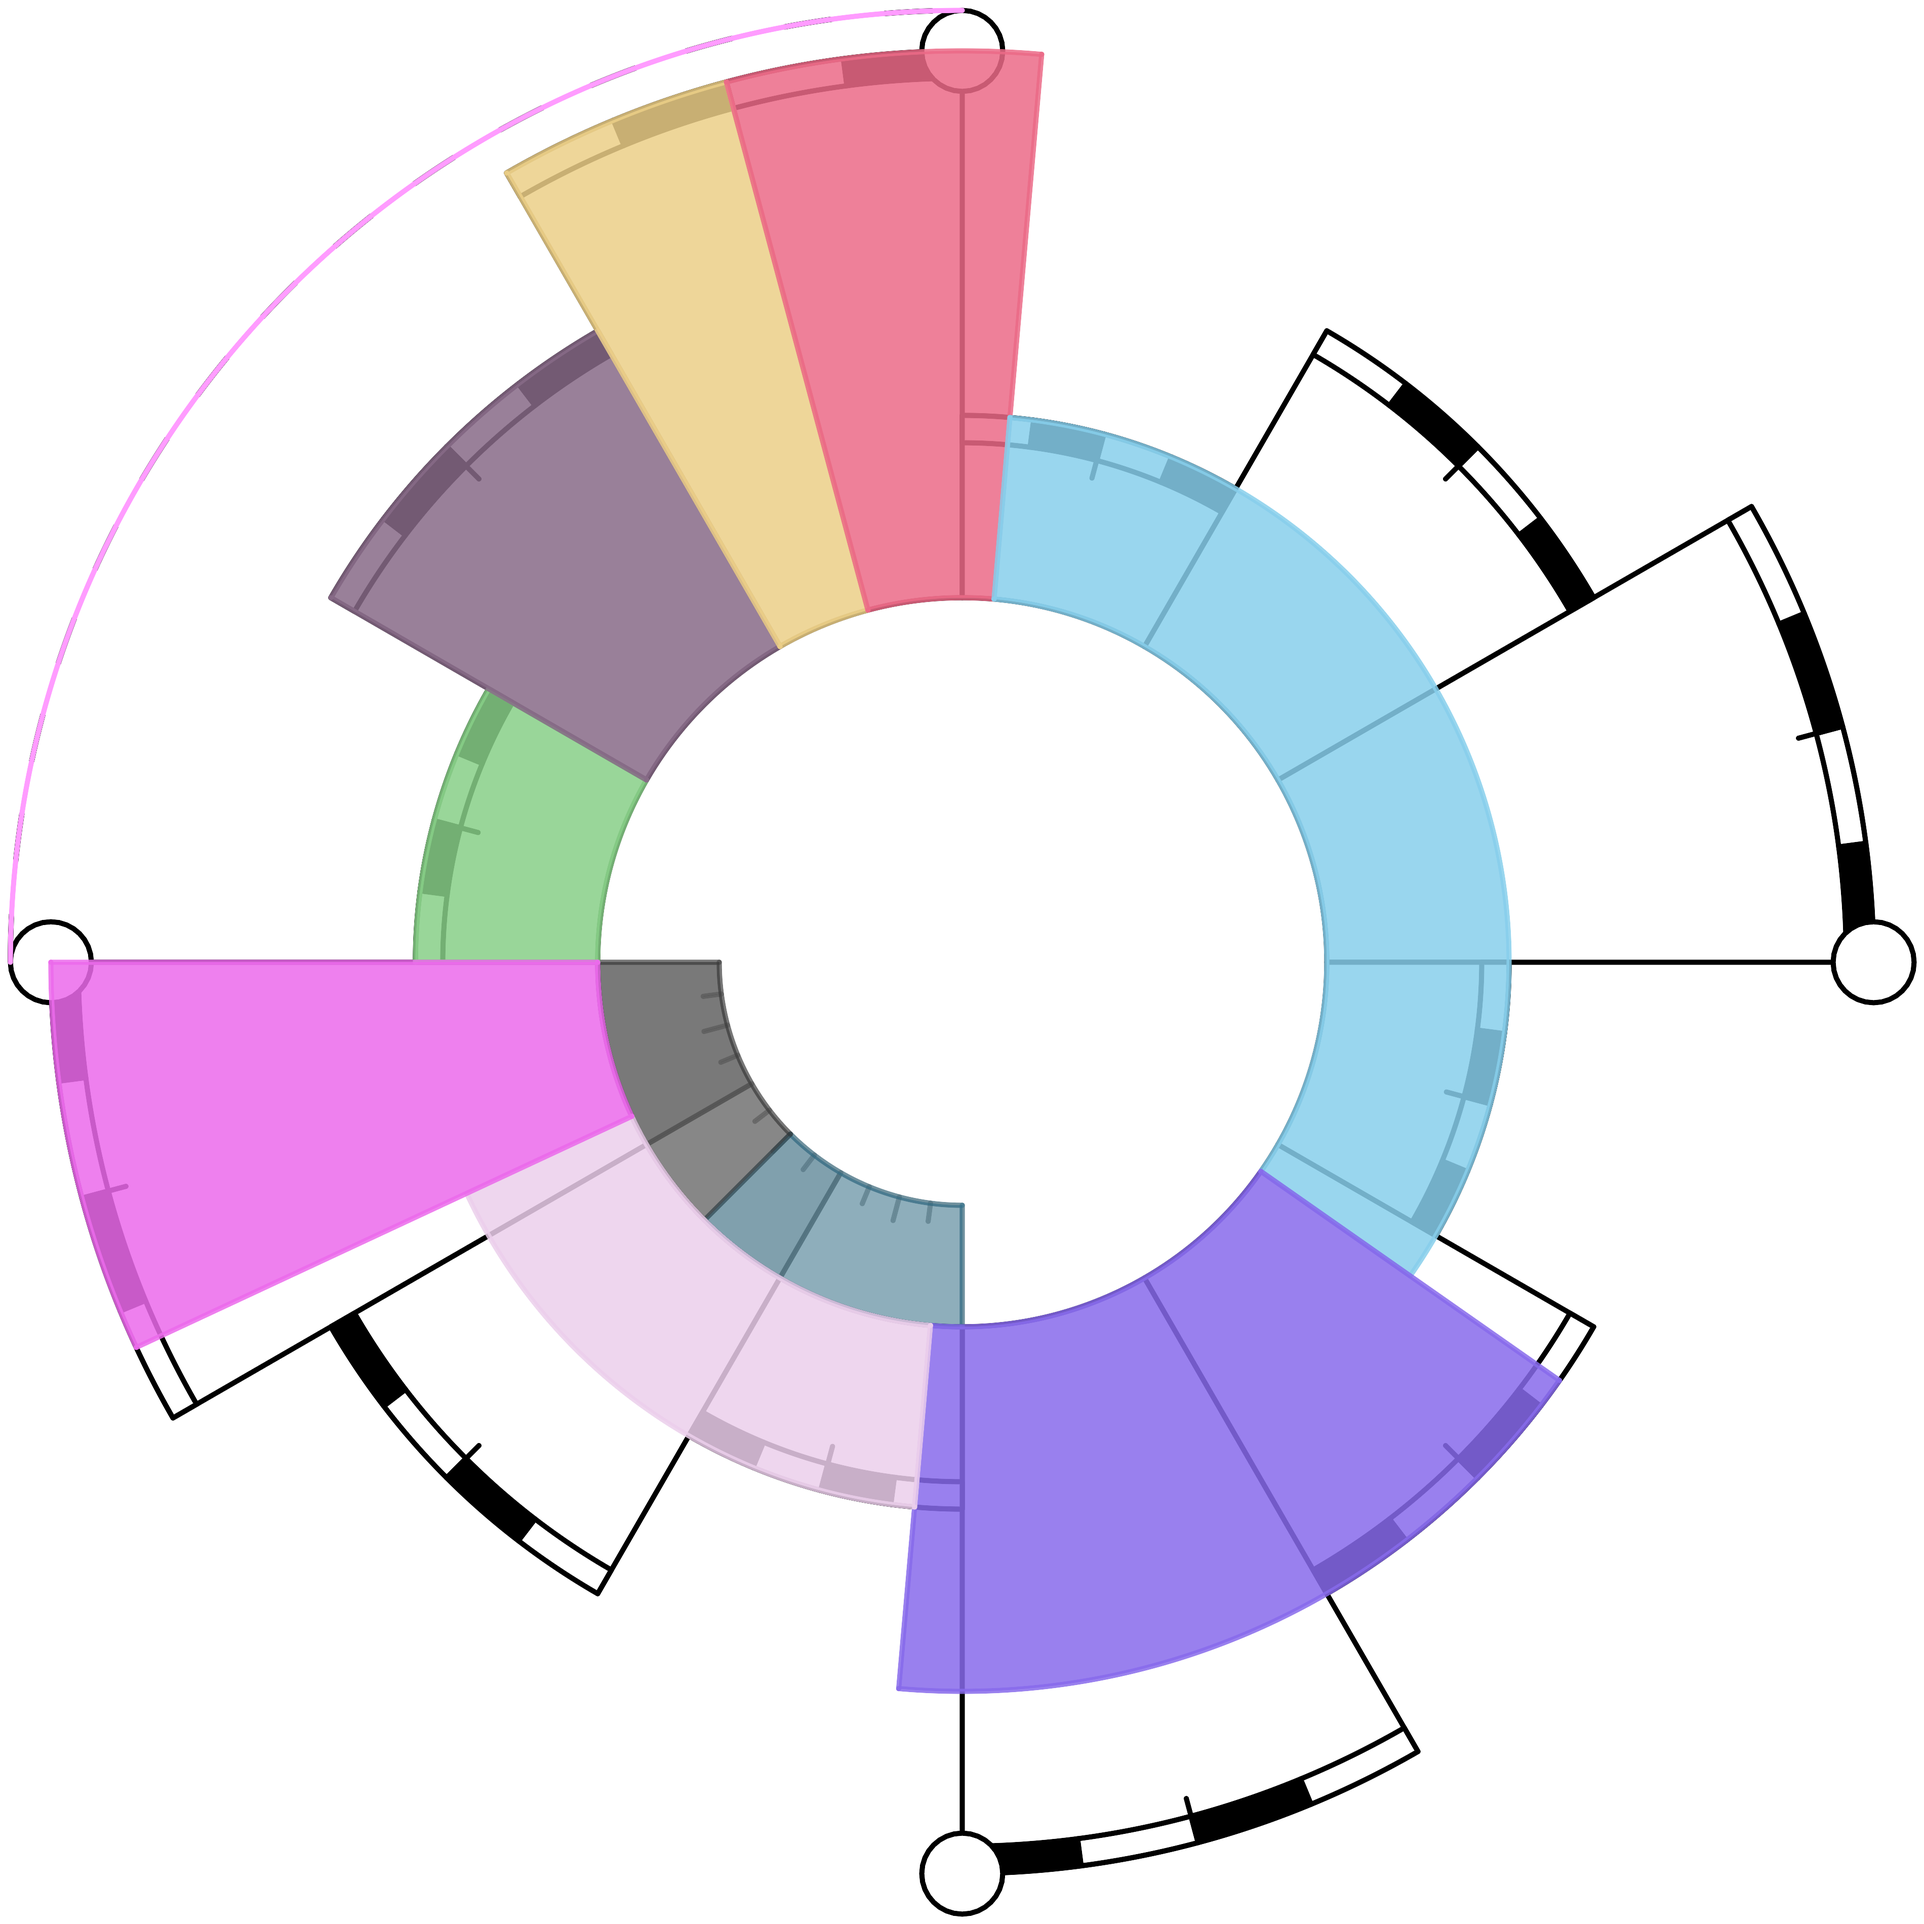
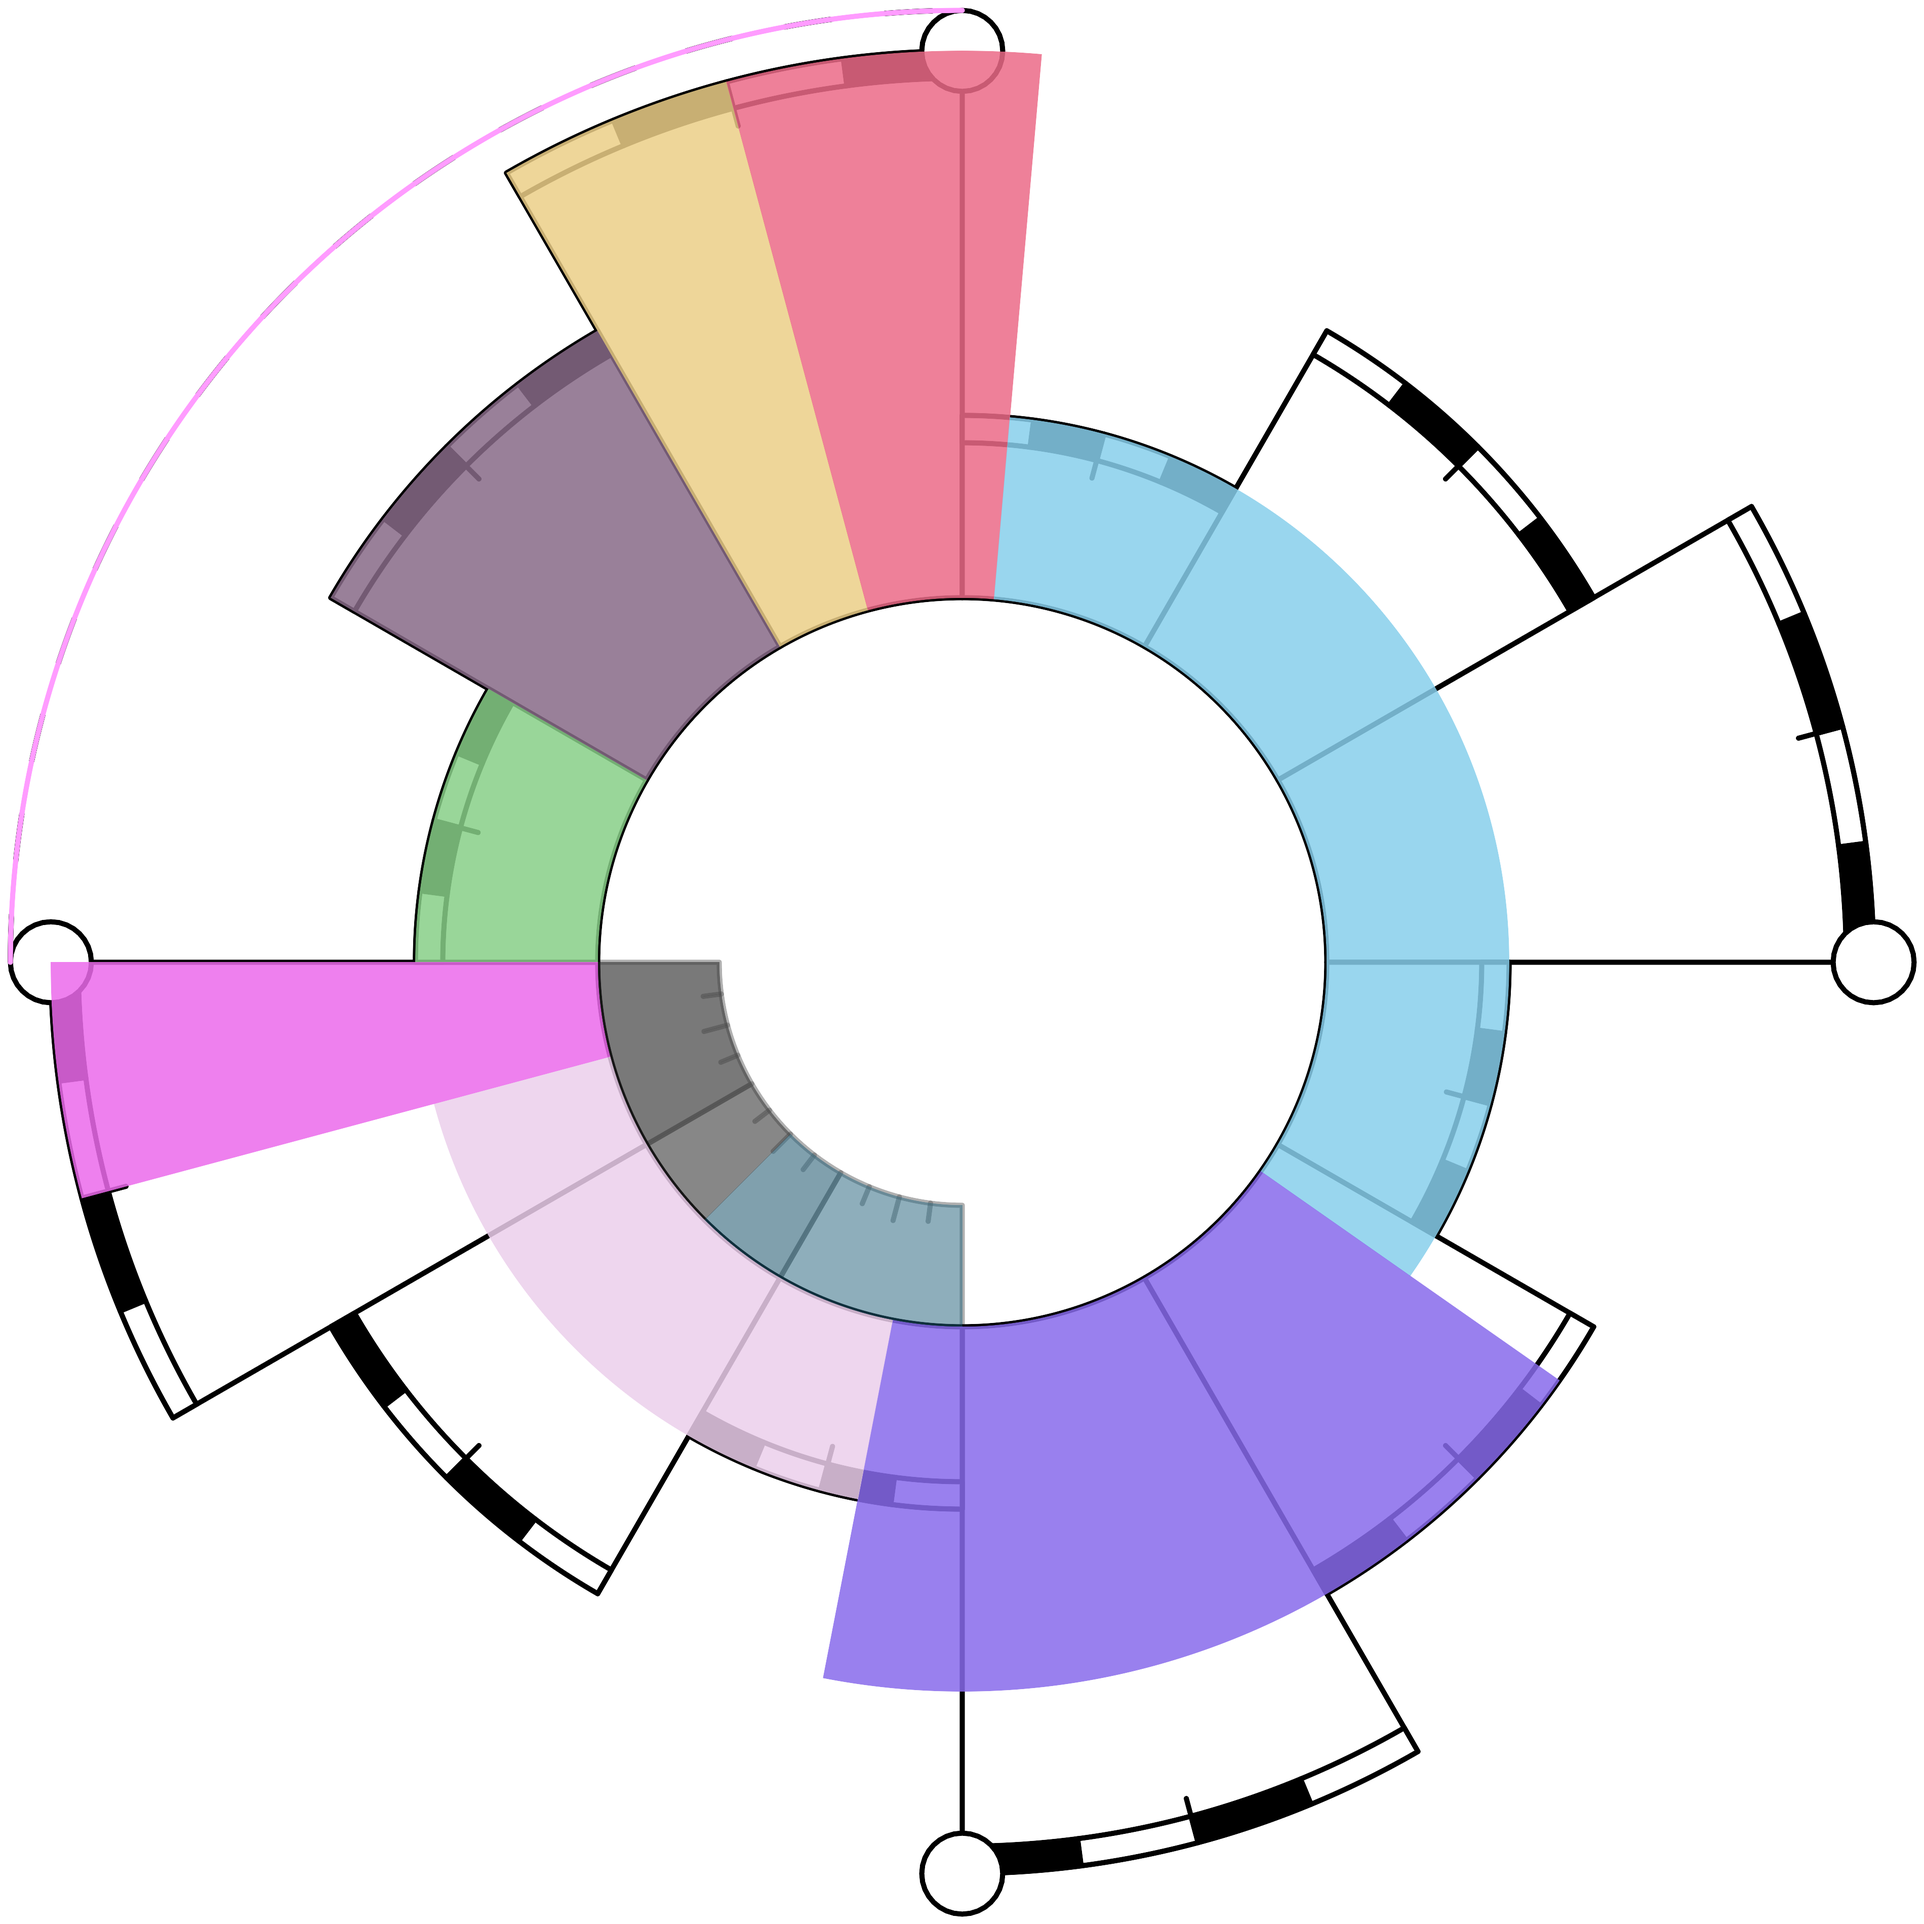
Updating the parser
- parser now understands time rather than the confusing
  'angle' nonsense.
- removed the _overlay option.
- fixed the example files.

diff --git a/lib/chronoplan.rb b/lib/chronoplan.rb
@@ -5,6 +5,8 @@ require 'quick_magick'
 
 class Chronoplan
 	# Constants
+        NINE_AM = Math::PI
+        NINE_PM = 3.*Math::PI
 	RADIUS = { 0 => 108, 1 => 144, 2 => 180, 3 => 188, -1 => 72, -2 => 48 }
         CENTERX=190
         CENTERY=190
@@ -18,7 +20,7 @@ class Chronoplan
 		@input_file = input_file	
 	end
 
-	def process
+        def parse
                 temp_file = Tempfile.new(['ScheduleOverlay','.mvg'])
                 puts temp_file.path
                 temp_file.write File.new("#{ROOT}/images/Chronodex-v2.mvg").read
@@ -27,22 +29,25 @@ class Chronoplan
                 temp_file.write "viewbox 0 0 380 380\n"
 		File.foreach(@input_file) do |line|
 			parsed = line.split(";").map { |tmp| tmp.strip }
-			start_arc_time = -Math::PI / 180 * (parsed[0].to_f-180)
-			end_arc_time   = -Math::PI / 180 * (parsed[1].to_f-180)
+			start_arc_time = time_to_radius(parsed[0])
+			end_arc_time   = time_to_radius(parsed[1])
 			rgba_string = parsed[2]
 
-			outer_radius_index = (parsed[0].to_f.modulo(90) / 30).floor
-                        outer_radius_index = -2 if parsed[0].to_f < 0
-                        outer_radius_index = 3 if parsed[0].to_f >= 360
+			outer_radius_index = radial_index(parsed[0])
+                        outer_radius_index = -2 if start_arc_time < NINE_AM
+                        outer_radius_index = 3 if start_arc_time >= NINE_PM
                         outer_radius = RADIUS[outer_radius_index]
+                        outer_radius = RADIUS[-1]+20 if start_arc_time < NINE_PM
+                        outer_radius = RADIUS[-1]-20 if start_arc_time < NINE_AM
+                        outer_radius = RADIUS[3]-1 if start_arc_time >= NINE_PM
 
-                        temp_file.write INTERIOR_ARC.result(binding) if parsed[0].to_f < 360
-                        temp_file.write OUTSIDE_ARC.result(binding) if parsed[0].to_f >= 360
+                        temp_file.write INTERIOR_ARC.result(binding) if start_arc_time < NINE_PM
+                        temp_file.write OUTSIDE_ARC.result(binding) if start_arc_time >= NINE_PM
                         rgba_start_line = rgba_string
                         rgba_end_line = rgba_string
                         rgba_inside_arc = rgba_string
                         rgba_outside_arc = rgba_string
-                        temp_file.write BORDERS_ARC.result(binding) if parsed[0].to_f < 360
+                        #temp_file.write BORDERS_ARC.result(binding) if start_arc_time < NINE_PM
 		end
                 temp_file.write "pop graphic-context\n"
                 temp_file.close
@@ -53,4 +58,53 @@ class Chronoplan
                 image.convert("output.png")
                 temp_file.unlink
 	end
+
+	def process
+                temp_file = Tempfile.new(['ScheduleOverlay','.mvg'])
+                puts temp_file.path
+                temp_file.write File.new("#{ROOT}/images/Chronodex-v2.mvg").read
+
+                temp_file.write "push graphic-context\n"
+                temp_file.write "viewbox 0 0 380 380\n"
+		File.foreach(@input_file) do |line|
+			parsed = line.split(";").map { |tmp| tmp.strip }
+			start_arc_time = time_to_radius(parsed[0])
+			end_arc_time   = time_to_radius(parsed[1])
+			rgba_string = parsed[2]
+
+			outer_radius_index = radial_index(parsed[0])
+                        outer_radius_index = -2 if start_arc_time < NINE_AM
+                        outer_radius_index = 3 if start_arc_time >= NINE_PM
+                        outer_radius = RADIUS[outer_radius_index]
+                        outer_radius = RADIUS[-1]+20 if start_arc_time < NINE_PM
+                        outer_radius = RADIUS[-1]-20 if start_arc_time < NINE_AM
+                        outer_radius = RADIUS[3]-1 if start_arc_time >= NINE_PM
+
+                        temp_file.write INTERIOR_ARC.result(binding) if start_arc_time < NINE_PM
+                        temp_file.write OUTSIDE_ARC.result(binding) if start_arc_time >= NINE_PM
+                        rgba_start_line = rgba_string
+                        rgba_end_line = rgba_string
+                        rgba_inside_arc = rgba_string
+                        rgba_outside_arc = rgba_string
+                        #temp_file.write BORDERS_ARC.result(binding) if start_arc_time < NINE_PM
+		end
+                temp_file.write "pop graphic-context\n"
+                temp_file.close
+
+                image = QuickMagick::Image.read(temp_file.path).first
+                image.append_to_operators("background","none")
+                image.append_to_operators("density","720")
+                image.convert("output.png")
+                temp_file.unlink
+	end
+
+        def time_to_radius(time_string)
+            hms = time_string.split(":")
+            Math::PI/180*(hms[0].to_f*30.0+hms[1].to_f*0.5+hms[2].to_f*0.25/3.0 - 90.0)
+        end
+
+        def radial_index(time_string)
+            hms = time_string.split(":")
+            hms[0].to_i.modulo(3)
+        end
 end # class
